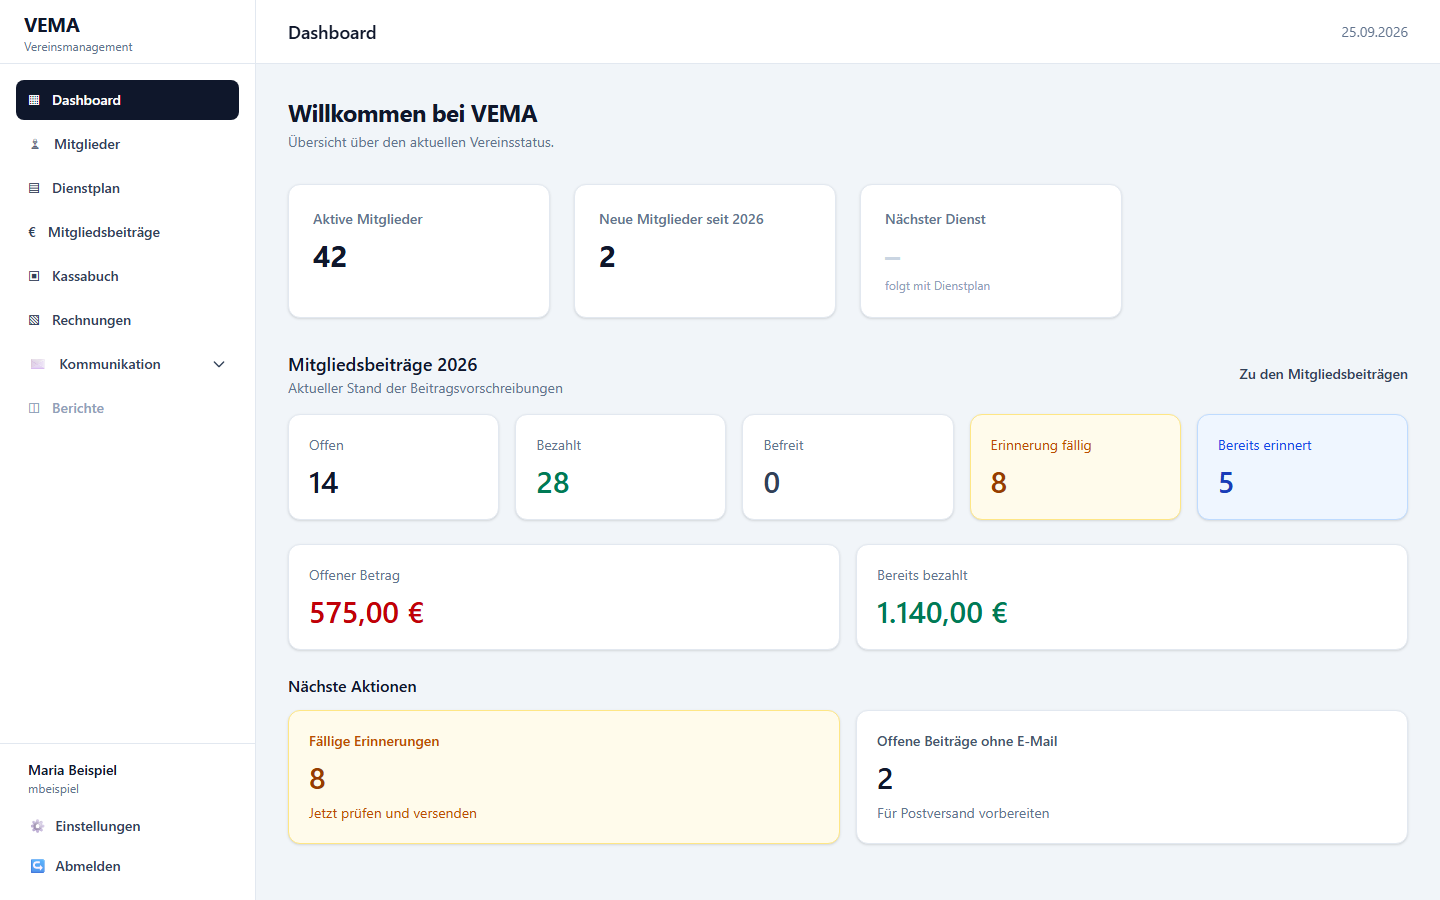
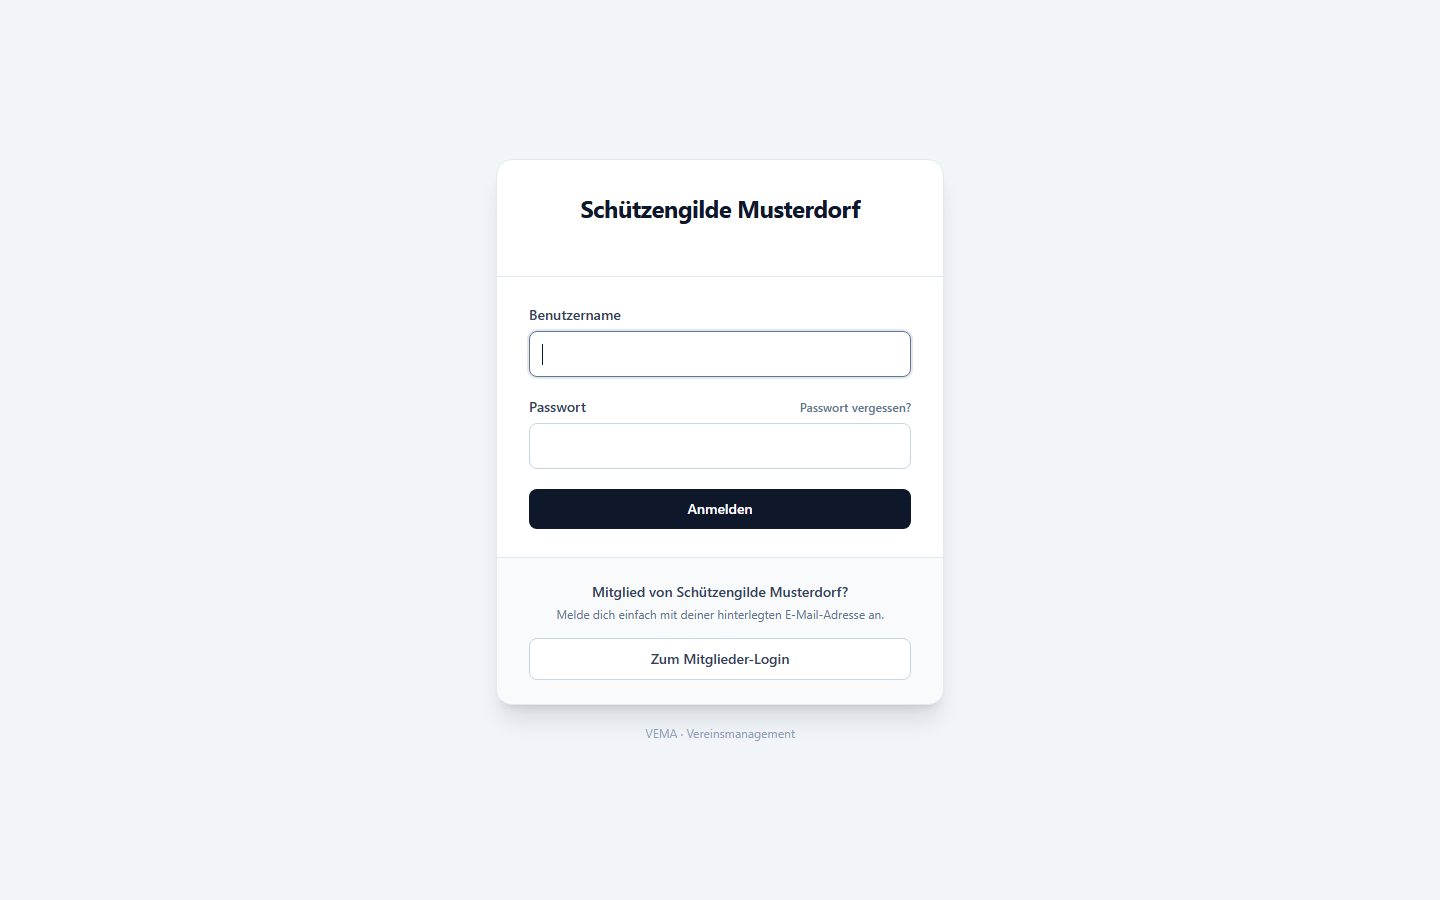
Add missing user manual screenshots and fix login screenshots
Replace the "Abbildung folgt" placeholders with screenshots of events,
external calendars, contact import, invoice number range, letterhead and
mail settings, member portal events and club registration. Retake the
login screenshots, which showed the dashboard.

diff --git a/resources/docs/anleitung/anleitung.md b/resources/docs/anleitung/anleitung.md
@@ -25,7 +25,7 @@ Version: Oktober 2026
 15. [VEMA auf vemat.at: Registrierung, Pakete und Testphase](#15-vema-auf-vematat-registrierung-pakete-und-testphase)
 16. [Häufige Fragen und Tipps](#16-häufige-fragen-und-tipps)
 
-> **Hinweis zu den Abbildungen:** Alle Screenshots zeigen den fiktiven Verein „Schützengilde Musterdorf“ mit erfundenen Demodaten. Namen, Adressen und Beträge haben keinen Bezug zu echten Personen. Stellen mit *[Abbildung folgt: …]* bekommen bei der nächsten Überarbeitung einen Screenshot.
+> **Hinweis zu den Abbildungen:** Alle Screenshots zeigen den fiktiven Verein „Schützengilde Musterdorf“ mit erfundenen Demodaten. Namen, Adressen und Beträge haben keinen Bezug zu echten Personen.
 
 ---
 
@@ -323,7 +323,7 @@ Unter **Abwesenheiten** tragen Sie Urlaube oder sonstige Verhinderungen ein: **H
 
 Unter **Termine** planen Sie einzelne Vereinstermine wie Sitzungen, die Jahreshauptversammlung, Feste oder Ausrückungen. Mitglieder sehen die Termine im Mitgliederbereich, können zu- oder absagen und haben sie automatisch in ihrem Kalender-Abo. Zusätzlich lassen sich **externe Kalender** (z. B. vom Verband oder der Gemeinde) einbinden, deren Termine VEMA selbstständig übernimmt.
 
-*[Abbildung folgt: Termine-Übersicht]*
+![Termine mit aufgeklappten Rückmeldungen](bilder/45-termine.png)
 
 ### 7.1 Termin anlegen
 
@@ -344,7 +344,7 @@ Mit **Termin anlegen** speichern.
 
 **Sichtbar für:** Ist **kein Mitglied ausgewählt**, sehen **alle Mitglieder** den Termin. Hakt man Mitglieder an, sehen **nur diese** den Termin im Mitgliederbereich und in ihrem Kalender-Abo – praktisch z. B. für Vorstandssitzungen. Über **Mitglied suchen …** filtern Sie die Liste; rechts oben steht, wie viele ausgewählt sind („alle Mitglieder“ bzw. „3 ausgewählt“).
 
-*[Abbildung folgt: Formular „Neuer Termin“ mit Auswahl „Sichtbar für“]*
+![Termin bearbeiten – nur für ausgewählte Mitglieder sichtbar](bilder/46-termin-bearbeiten.png)
 
 ### 7.2 Terminliste
 
@@ -369,7 +369,7 @@ Ein Klick auf **Rückmeldungen** klappt beim Termin zwei Spalten auf: **Zugesagt
 
 Im Abschnitt **Externe Kalender** unten auf der Seite binden Sie Kalender ein, die als **iCal-Link** veröffentlicht sind – etwa den Terminkalender des Landesverbands, der Gemeinde oder einen Google-Kalender des Vorstands.
 
-*[Abbildung folgt: Abschnitt „Externe Kalender“]*
+![Externe Kalender einbinden](bilder/47-externe-kalender.png)
 
 1. Unter **Kalender hinzufügen** eine **Beschriftung** eingeben, z. B. „Termine Landesverband“. Unter diesem Namen sehen die Mitglieder die Termine – wählen Sie also einen Namen, mit dem sie etwas anfangen können.
 2. Den **iCal-Link** einfügen (beginnt mit `https://` oder `webcal://`).
@@ -533,7 +533,7 @@ Externe Kontakte sind Personen ohne Mitgliedschaft – z. B. Gemeinde, Nachbarve
 
 Viele Kontakte auf einmal – z. B. eine Liste aller Nachbarvereine – übernehmen Sie über **Kontakte importieren** rechts oben.
 
-*[Abbildung folgt: Import-Vorschau]*
+![Vorschau beim Import externer Kontakte](bilder/48-kontakte-import.png)
 
 1. Eine Datei auswählen: **Excel (.xlsx, .xls) oder CSV**, höchstens 5 MB. Gelesen wird das erste Tabellenblatt.
 2. VEMA sucht in den ersten 20 Zeilen die **Kopfzeile** und erkennt die Spalten anhand ihrer Überschrift:
@@ -707,7 +707,7 @@ Entwürfe haben stattdessen die Knöpfe **Bearbeiten** und **Rechnung erstellen*
 
 **Nummernkreis der Rechnungen**
 
-*[Abbildung folgt: Nummernkreis mit Vorschau]*
+![Nummernkreis mit Vorschau der nächsten Rechnungsnummer](bilder/49-nummernkreis.png)
 
 Unter **Rechnungsdaten → Nummernkreis** legen Sie fest, wie Rechnungsnummern aussehen:
 
@@ -732,7 +732,7 @@ Enthält das Format ein Jahr (`{JAHR}` oder `{JJ}`), beginnt die Nummer **jedes 
 
 ### 12.2 Briefpapier & E-Mail
 
-*[Abbildung folgt: Einstellungen „Briefpapier & E-Mail“]*
+![Einstellungen „Briefpapier & E-Mail“](bilder/50-briefpapier-email.png)
 
 Hier legen Sie fest, wie Briefe und E-Mails des Vereins aussehen:
 
@@ -843,7 +843,7 @@ Alle Rundschreiben, die das Mitglied erhalten hat, als PDF – inklusive Anhäng
 
 ### 13.6 Termine
 
-*[Abbildung folgt: Termine im Mitgliederbereich]*
+![Termine im Mitgliederbereich](bilder/51-portal-termine.png)
 
 Unter **Termine** sehen Mitglieder die anstehenden Vereinstermine – zunächst die nächsten fünf, mit **Mehr anzeigen** weitere. Termine aus externen Kalendern tragen ein Etikett mit dem Namen des Kalenders (z. B. „Termine Landesverband“).
 
@@ -890,7 +890,7 @@ Dieses Kapitel betrifft nur Vereine, die VEMA über die Plattform **vemat.at** n
 
 ### 15.1 Verein registrieren
 
-*[Abbildung folgt: Registrierung „Verein registrieren“]*
+![Verein registrieren auf vemat.at](bilder/52-verein-registrieren.png)
 
 1. Auf **app.vemat.at/registrieren** (oder über **Kostenlos registrieren** auf vemat.at) das Formular ausfüllen:
    - **Name des Vereins**
